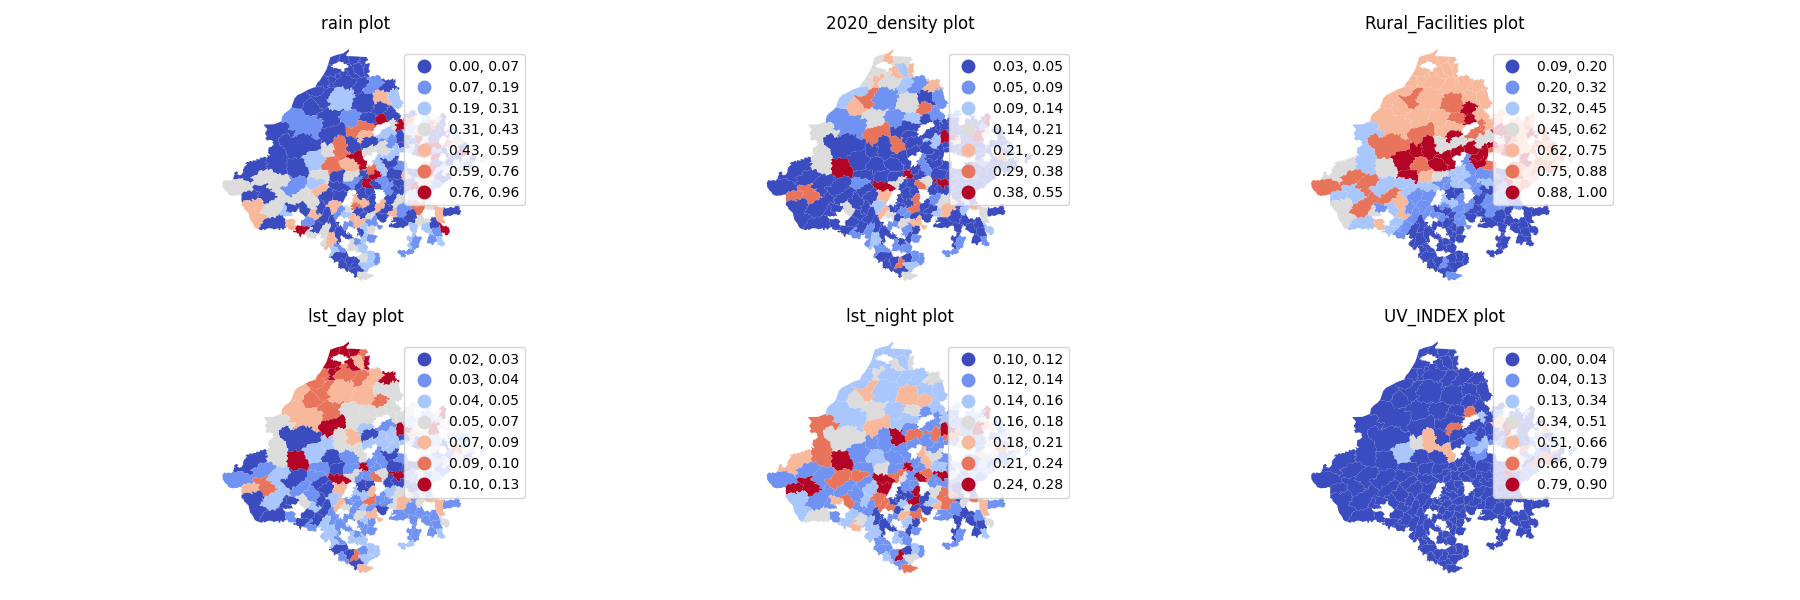
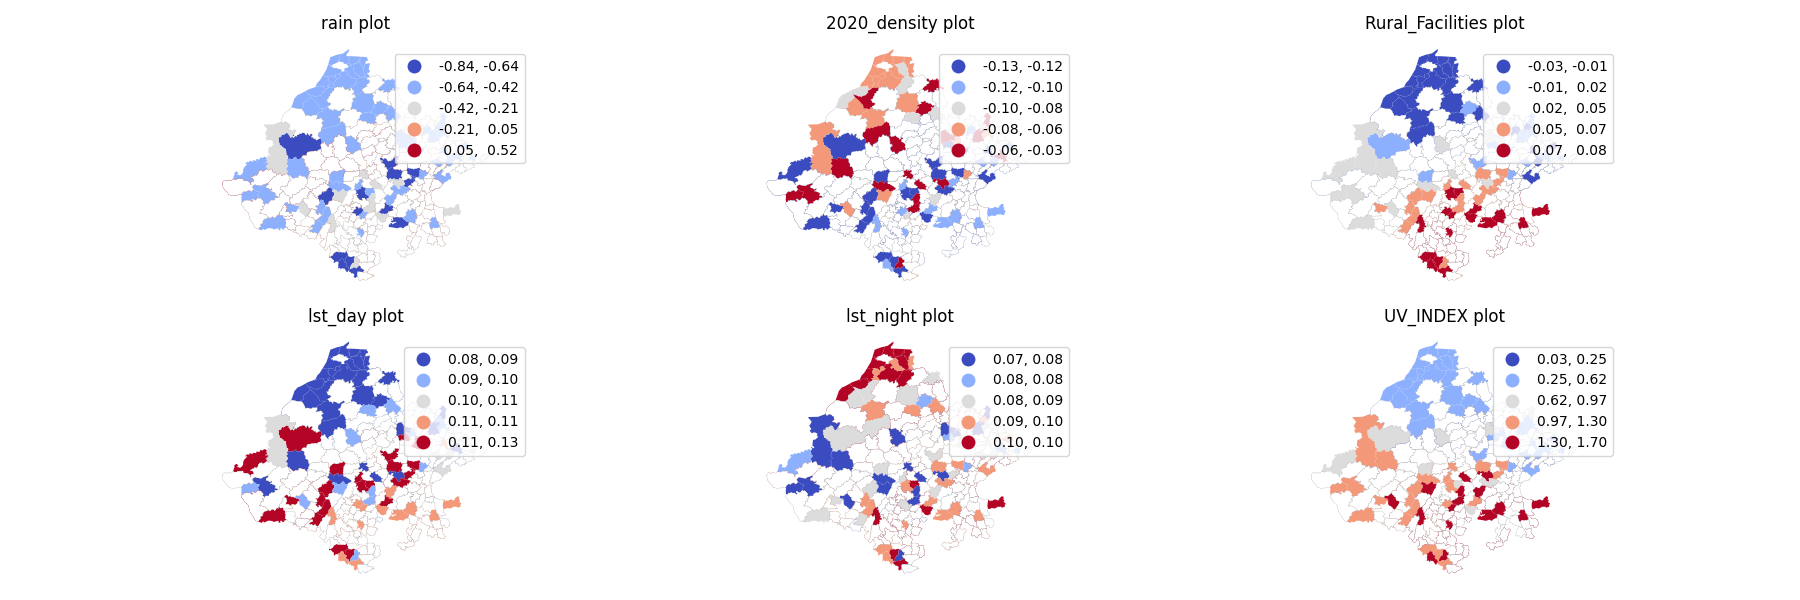
added coefficient maps with filtered t-value

diff --git a/flaskapp/templates/show.html b/flaskapp/templates/show.html
@@ -59,7 +59,7 @@
     {% endif %}
 
     {% if p_value_plot %}
-    <h2>P_Value Plot</h2>
+    <h2>Coefficient Plot With significance</h2>
     <img src="{{ p_value_plot }}" alt="P_Value Plot" style="max-width: 100%;">
     {% endif %}
 

diff --git a/flaskapp/models.py b/flaskapp/models.py
@@ -168,22 +168,25 @@ class MGWRModel(Model):
         plt.close()
         return file_path
 
-    def mgwr_pvalue_plot(self, coefficients, std_errors):
-        t_values = coefficients / std_errors
-        n = self.X.shape[0]
-        p_values = np.array([[2 * (1 - t.cdf(abs(t_val), n - 2)) for t_val in t_val_row] for t_val_row in t_values])
-        p_values_df = pd.DataFrame(p_values[:,1:], index=self.merged.index, columns=self.X.columns)
-
-        merged_gdf = pd.merge(p_values_df, self.gdf, left_index=True, right_index=True)
+    # this is currently t-value plot as kb requested
+    def mgwr_pvalue_plot(self, mgwr_results, coefficients):
+        coefficients_df = pd.DataFrame(coefficients[:,1:], index=self.merged.index, columns=self.X.columns)
+        merged_gdf = pd.merge(coefficients_df, self.gdf, left_index=True, right_index=True)
         merged_gdf = gpd.GeoDataFrame(merged_gdf, geometry='geometry')
 
+        mgwr_filtered_t = mgwr_results.filter_tvals(alpha = 0.05)
+        n = self.X.shape[0]
+        # p_values = np.array([[2 * (1 - t.cdf(abs(t_val), n - 2)) for t_val in t_val_row] for t_val_row in t_values])
+        mgwr_filtered_series = pd.DataFrame(mgwr_filtered_t[:, 1])
 
         fig, axes = plt.subplots(int(np.ceil(len(self.variables) / 3)), ncols=3, figsize=(18,6))
 
         for i, var in enumerate(self.variables):
             row, col = divmod(i, 3)
             ax = axes[row, col]
-            merged_gdf.plot(column=var, cmap='coolwarm', linewidth=0.05, scheme='FisherJenks', k=7, legend=True, legend_kwds={'bbox_to_anchor': (1.10, 0.96)}, ax=ax)
+            merged_gdf.plot(column=var, cmap='coolwarm', linewidth=0.05, scheme='FisherJenks', k=5, legend=True, legend_kwds={'bbox_to_anchor': (1.10, 0.96)}, ax=ax)
+            merged_gdf[mgwr_filtered_t[:,1] == 0].plot(color='white', linewidth=0.05, edgecolor='black', ax=ax)
+            
             ax.set_title(f'{var} plot', fontsize=12)
             ax.set_axis_off()
         
@@ -192,8 +195,18 @@ class MGWRModel(Model):
         fig.savefig(file_path)
         plt.close()
         return file_path
+    
+    def mgwr_multicollinearity_test(self,mgwr_results):
+        mgwrCN, mgwrVDP = mgwr_results.local_collinearity()
+        gdf['mgwr_CN'] = mgwrCN
 
-        
+        fig, ax = plt.subplots(figsize=(6, 6))
+        gdf.plot(column='mgwr_CN', cmap = 'coolwarm', linewidth=0.01, scheme = 'FisherJenks', k=5, legend=True, legend_kwds={'bbox_to_anchor':(1.10, 0.96)},  ax=ax)
+        ax.set_title('Local multicollinearity (CN > 30)?', fontsize=12)
+        ax.axis("off")
+        #plt.savefig('myMap.png',dpi=150, bbox_inches='tight')
+        plt.show()
+
     # def mgwr_r2_plot(self, models.R2):
     #     r2 = pd.DataFrame(R2, index=self.merged.index, columns=self.X.columns)
 
@@ -218,7 +231,8 @@ class MGWRModel(Model):
     def run(self): 
         model = self.model.fit()
         mgwr_coefficient_plot = self.mgwr_coefficient_plot(model.params)
-        mgwr_pvalue_plot = self.mgwr_pvalue_plot(model.params, model.bse)
+        mgwr_pvalue_plot = self.mgwr_pvalue_plot(model,model.params)
+        # mgwr_multicollinearity_test = self.mgwr_multicollinearity_test(model)
         # mgwr_r2_plot = self.mgwr_r2_plot(model.R2)
         return mgwr_coefficient_plot, mgwr_pvalue_plot
 
@@ -234,6 +248,7 @@ class MultipleLinearRegression(Model):
 
     def save_coefficients_plot(self):
         features = list(self.X_train.columns.values)
+
         fig = plt.figure(figsize=(7, 5))
         plt.plot(features, self.model.coef_.flatten(), linestyle='none', marker='o', markersize=4, color='blue', zorder=7)
         plt.title("Linear Regression Coefficients")
